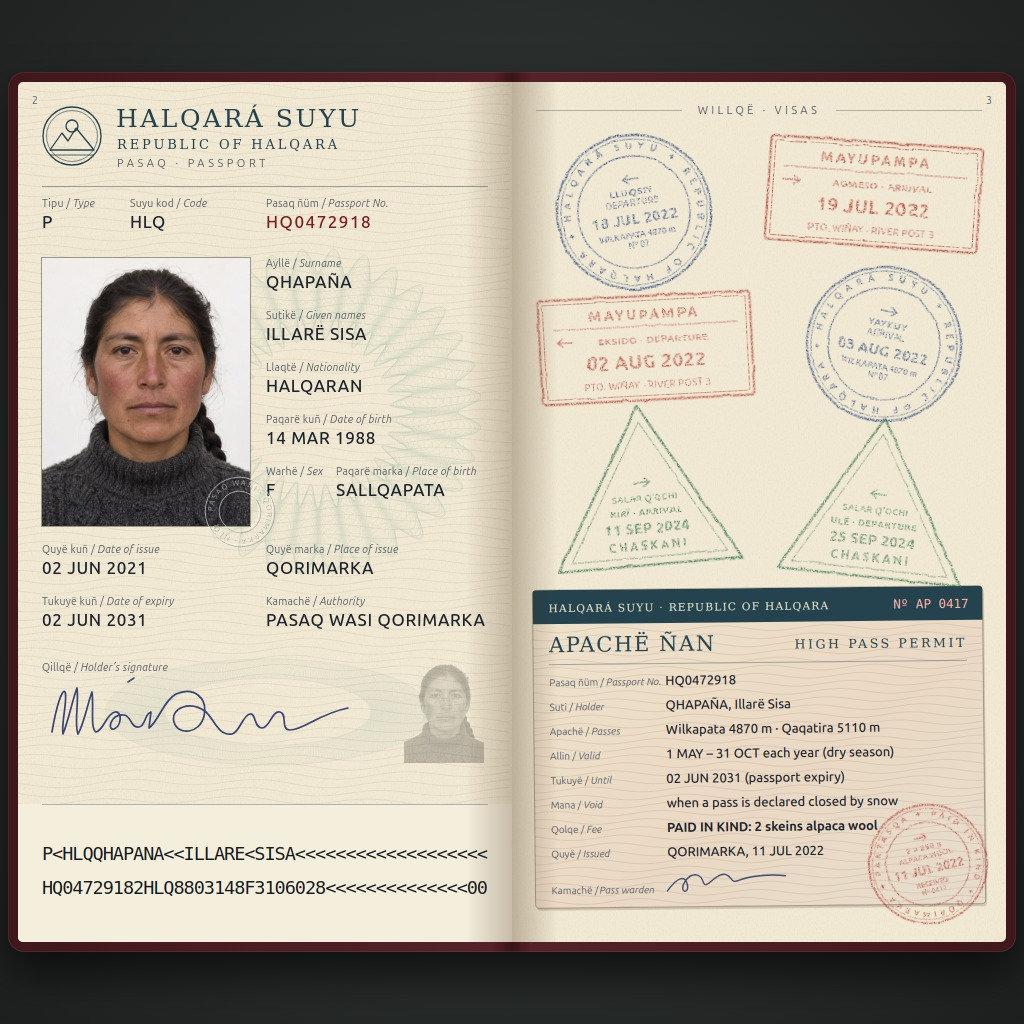
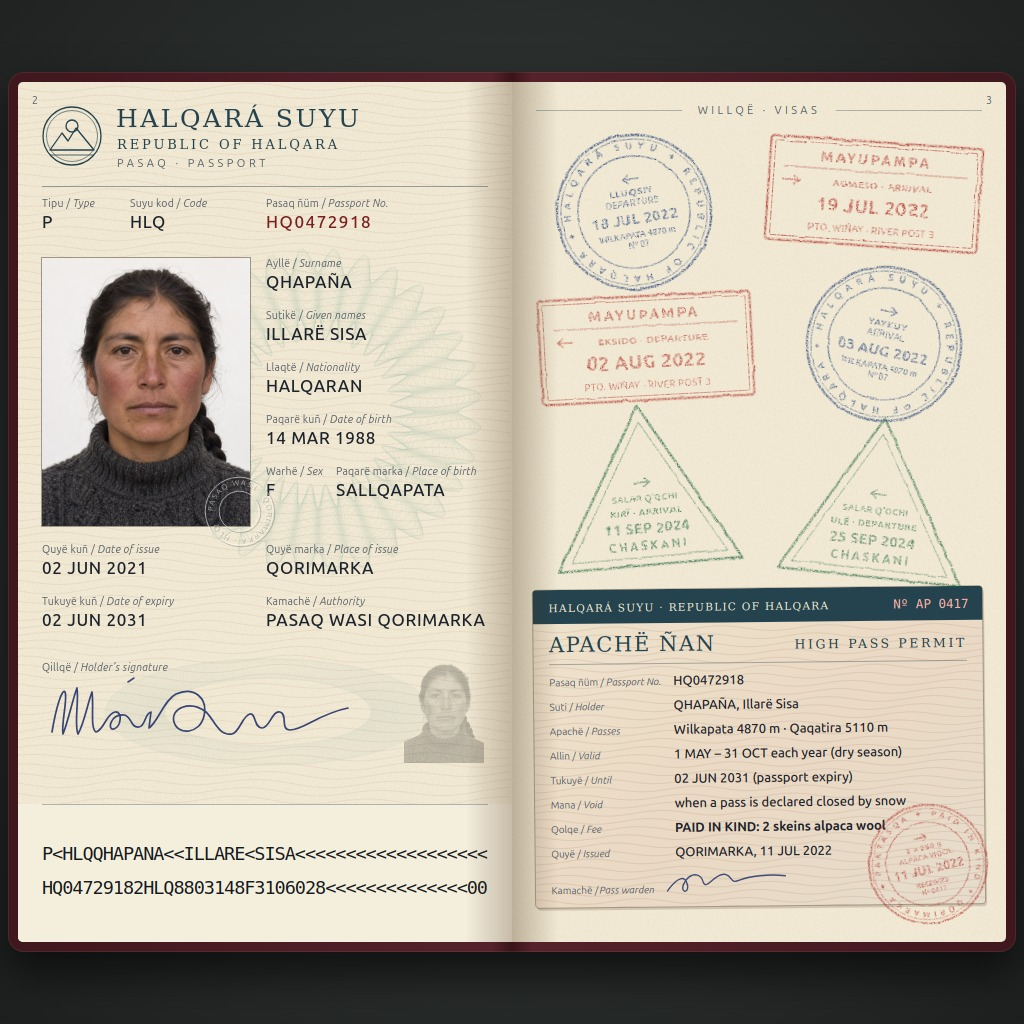
Permit sticker: widen label column so labels clear values

Changed region(s): [[0.6562, 0.6562, 0.875, 0.8438]]

diff --git a/page/index.html b/page/index.html
@@ -279,7 +279,7 @@ var P=PASSPORT;
     var yy=Y+96+i*24.5;
     var t=el(sg,'text',{x:X+16,y:yy,'font-family':FONT,'font-size':'10',fill:'#56606a'}); t.textContent=r[0]+' / ';
     el(t,'tspan',{'font-style':'italic'},r[1]);
-    el(sg,'text',{x:X+132,y:yy,'font-family':FONT,'font-size':'13','font-weight':(i===6?'700':'500'),fill:'#1c232c'},r[2]);
+    el(sg,'text',{x:X+140,y:yy,'font-family':FONT,'font-size':'13','font-weight':(i===6?'700':'500'),fill:'#1c232c'},r[2]);
   });
   el(sg,'text',{x:X+16,y:Y+H-14,'font-family':FONT,'font-size':'10',fill:'#56606a'},'Kamachë / ');
   el(sg,'text',{x:X+64,y:Y+H-14,'font-family':FONT,'font-size':'10','font-style':'italic',fill:'#56606a'},'Pass warden');
